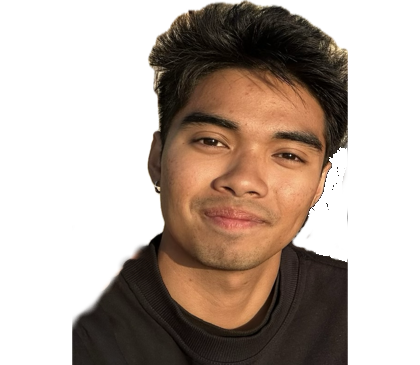
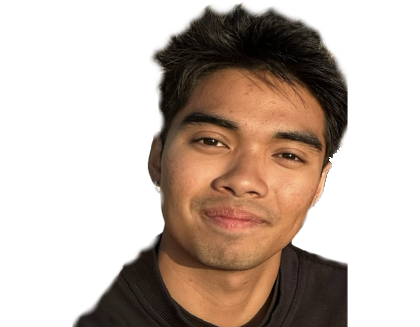
MVP

Changed region(s): [[0.1548, 0.0, 0.8357, 1.0]]

diff --git a/templates/about.html b/templates/about.html
@@ -4,7 +4,7 @@
 
 {% block about %}
 
-<div class="row about">
+<div class="row about" id="about">
 	<div class="slider fullscreen col s12">
 		<ul class="slides">
 		  <li class="manila">
@@ -14,10 +14,10 @@
 				<h3>Manila, Philippines</h3>
 				<h5 class="grey-text text-darken-4 flow-text">
 				  I was born in Manila, Philippines on October 2nd, 2002; although, my family is originally from the city of Masbate. I moved to New York City in 2004 and became an American
-				  citizen in 2018.
+				  citizen in 2018. Ever since, I've had the fortunate opportunity to travel and explore the world. Here's a quick look at some of the places i've been! <i class="material-icons">arrow_forward</i>
 				</h5>
 				<center>
-				  <a class="waves-effect waves-orange-daarken-4 btn-flat">Where I've Been</a>
+				  <a class="waves-effect waves-orange-daarken-4 btn-flat" >Where I've Been</a>
 				</center>
 			  </div>
 			</div>
@@ -93,13 +93,13 @@
 			  <h3>Madrid, Spain</h3>
 			  <h5 class="grey-text text-darken-4 flow-text">
 					I also studied for a semester in Spain. At Universidad Carlos III de Madrid, I took courses in: Control Engineering, Materials Science and Engineering, Neural Networks,
-					and Culture & Identity in Globalization. I also developed my Spanish-speaking abilities to the point of conversational-competency while residing in a spanish-only host-stay.
+					and Culture & Identity in Globalization. While studying, I resided in a spanish-speaking host-stay where I practiced my language skills and travelled during my free time.
 					I have since successfully completed my abroad program and graduated from college, eagerly looking forward to what the future has in store for me :)
 			  </h5>
 			  <center>
 				<img class="logo" id="uc3m" src="https://upload.wikimedia.org/wikipedia/commons/thumb/a/ac/Logo_UC3M.svg/1200px-Logo_UC3M.svg.png">
 				<br>
-				<a class="waves-effect waves-orange-daarken-4 btn-flat">View My Projects</a>
+				<a class="waves-effect waves-orange-daarken-4 btn-flat" href="#projects">View My Projects</a>
 
 			  </center>
 			</div>

diff --git a/templates/index.html b/templates/index.html
@@ -25,10 +25,10 @@
 		<div class="nav-wrapper navbar">
 		  	<a href="#" data-target="mobile-demo" class="sidenav-trigger"><i class="material-icons">menu</i></a>
 		  	<ul class="tabbar-tabs hide-on-med-and-down">
-					<li><a class="tabbar-tabs-text" href="/">home</a></li>
-					<li><a class="tabbar-tabs-text" href="/">about me</a></li>
-					<li><a class="tabbar-tabs-text" href="/">work experience</a></li>
-					<li><a class="tabbar-tabs-text" href="/">projects</a></li>
+					<li><a class="tabbar-tabs-text" href="#home">home</a></li>
+					<li><a class="tabbar-tabs-text" href="#about">about me</a></li>
+					<li><a class="tabbar-tabs-text" href="https://www.linkedin.com/in/alec-candidato-528222190/">work experience</a></li>
+					<li><a class="tabbar-tabs-text" href="#projects">projects</a></li>
 		  	</ul>
 		</div>
 	</nav>
@@ -61,5 +61,9 @@
 	<script type="text/javascript" src="js/materialize.min.js"></script>
 	<script>
 		M.AutoInit();
+
+		$(document).ready(function(){
+			$('.scrollspy').scrollSpy();
+		});
 	</script>
 </body>

diff --git a/templates/home.html b/templates/home.html
@@ -4,8 +4,19 @@
 
 {% block home %}
 
-<div class="row home">
-    <!-- <div class="col s12 face"><img src="{{ url_for('static', filename='images/headshot.png') }}"></div> -->
+<div class="row home" id="home">
+    <br>
+    <br>
+    <br>
+    <br>
+    <br>
+    <br>
+    <br>
+    <br>
+    <br>
+    <br>
+    <div class="col s12 face"><img src="{{ url_for('static', filename='images/headshot.png') }}"></div>
+    <!-- <img class="face" src="{{ url_for('static', filename='images/headshot.png') }}"> -->
     <h1 class="col s10 m6 offset-s1 offset-m3">
         hi! i'm alec.
     </h1>
@@ -21,7 +32,9 @@
         </div>
         engineer.
     </h6>
+    
     <br>
+    
     <h6 class="col s10 m6 offset-s1 offset-m3">
         welcome to my personal website! here, i'm excited to present a collection of projects that reflect my passion for technology
         and innovation. this website serves as a repository where i can share my journey as an engineer and celebrate the curious and creative spirit that drives me. 

diff --git a/static/css/home.css b/static/css/home.css
@@ -26,6 +26,10 @@
 /* Content */
 .face {
   height: 30vh;
+  position: absolute;
+  left: 55% !important;
+  top: 15% !important;
+  z-index: -1;
 }
 .row {
   /* Full height */

diff --git a/templates/work.html b/templates/work.html
@@ -4,7 +4,7 @@
 
 {% block work %}
 
-<div class="container row">
+<div class="container row" id="projects">
     <center>
         <h3>my projects</h3>
     </center>
